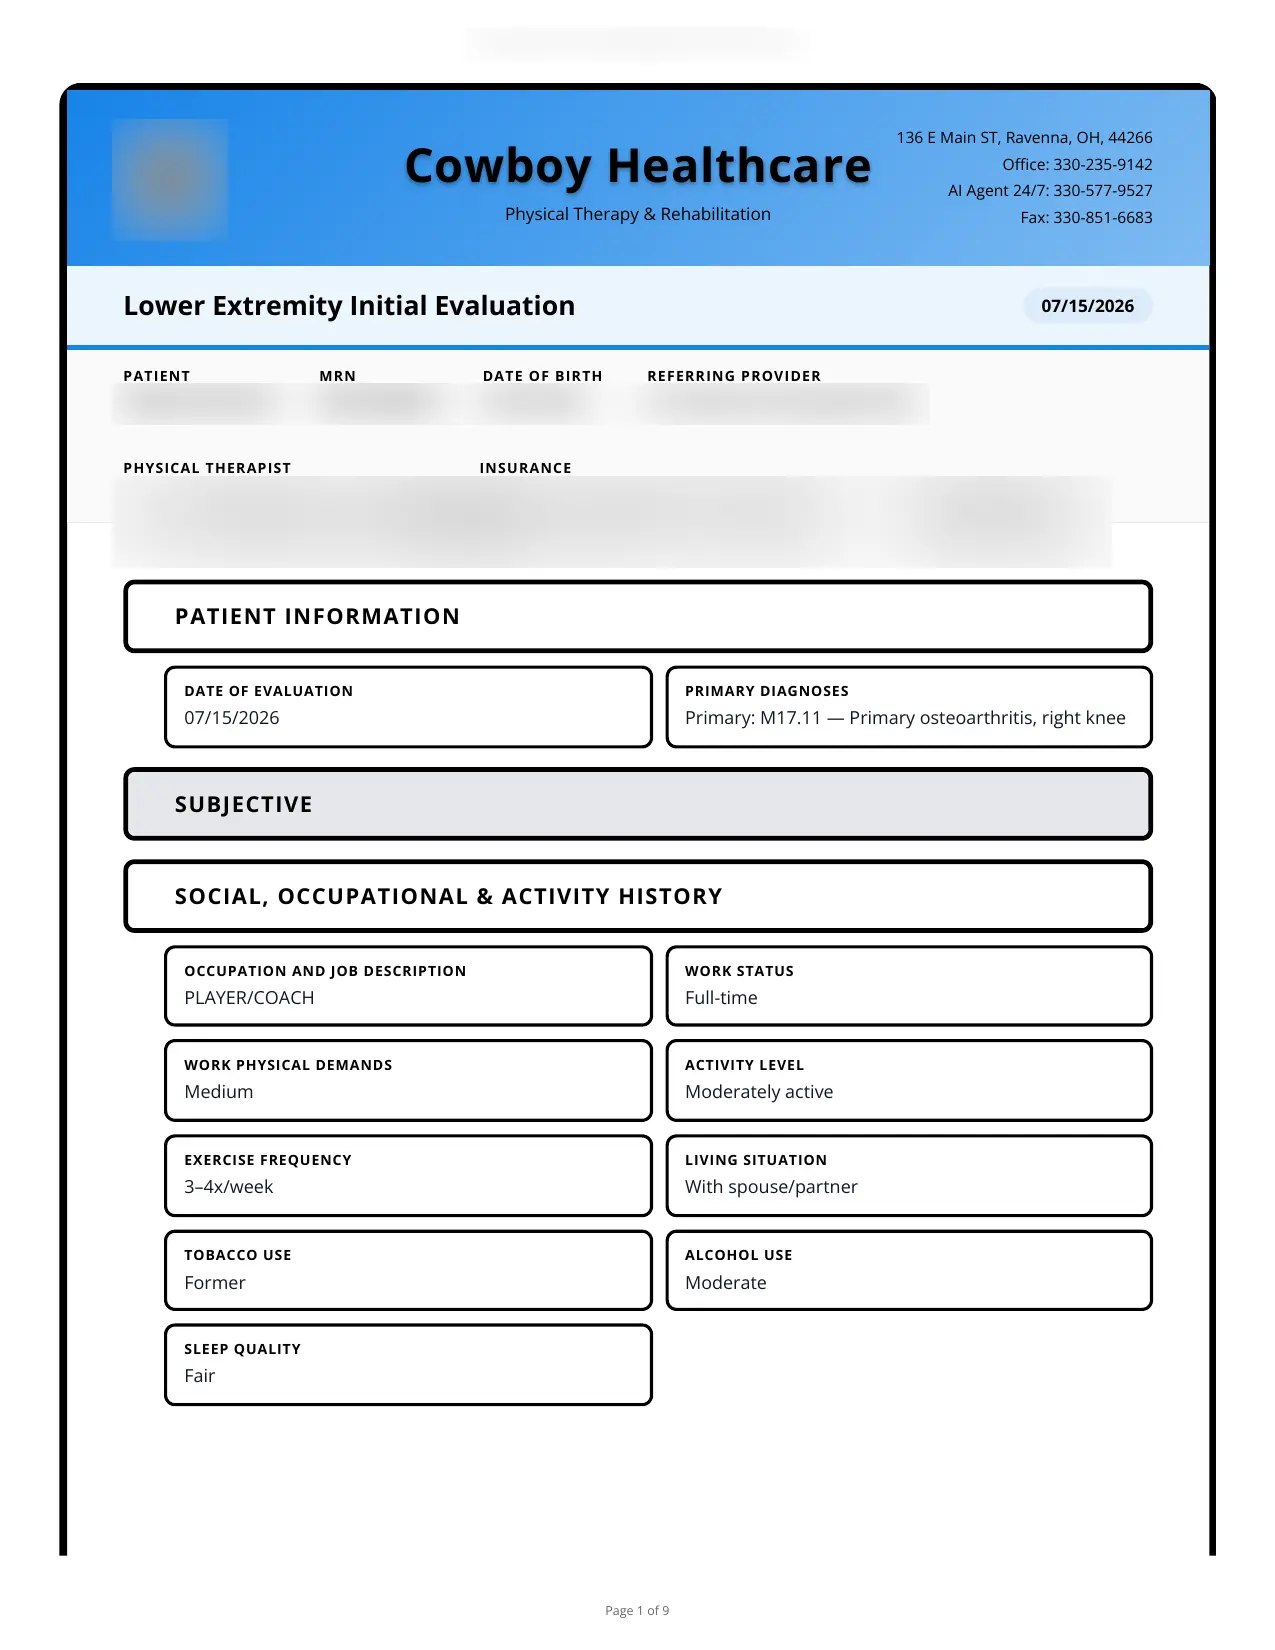
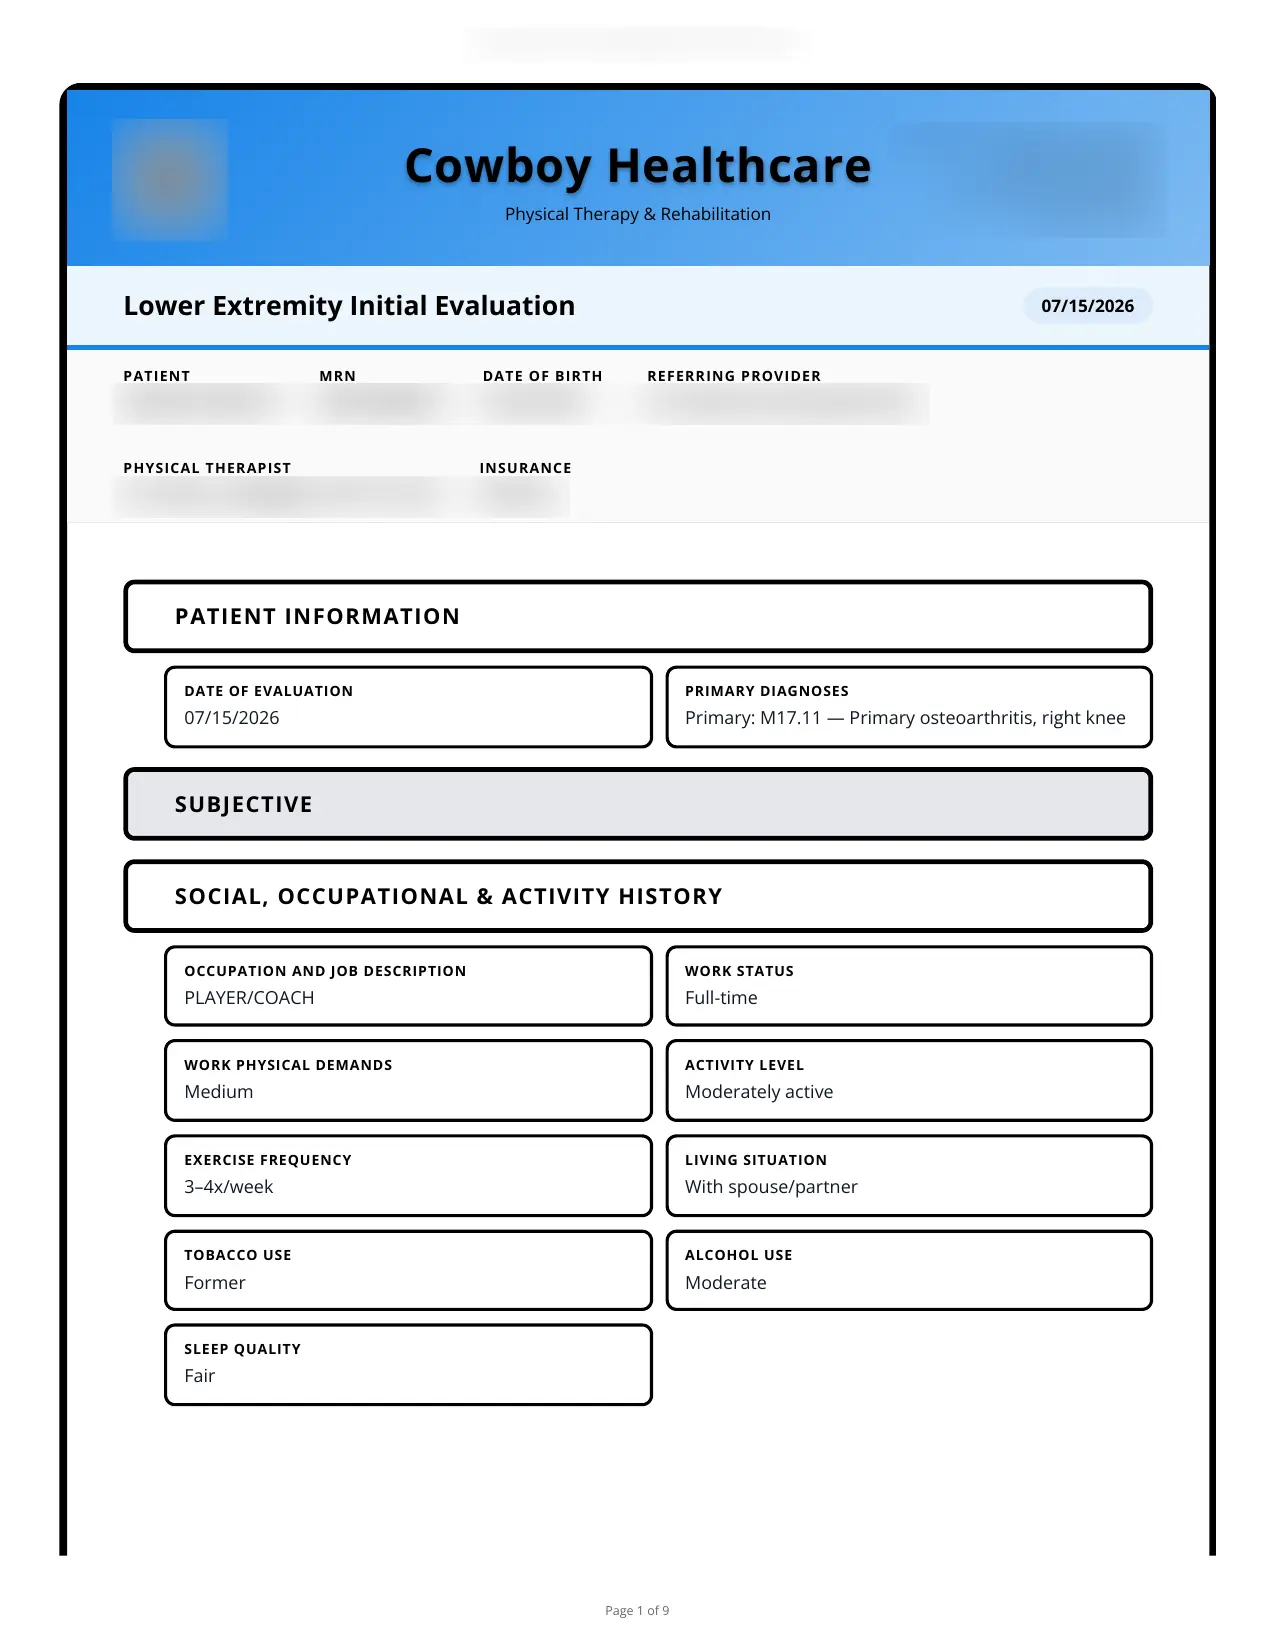
Blur the clinic address and phone block on the eval note
Claude-Session: https://claude.ai/code/session_01PXDZAk2nAo2KLzUGY7thp8

diff --git a/index.html b/index.html
@@ -318,7 +318,7 @@
       </div>
       <div class="note-scroll" tabindex="0" role="group" aria-label="Signed initial evaluation note. Scroll to read; use the plus and minus buttons to zoom.">
         <div class="note-pages">
-          <img src="/assets/product/eval-note/page-1.webp?v=2" alt="Signed initial evaluation, page 1 of 9: patient information and subjective history" loading="lazy" decoding="async"/>
+          <img src="/assets/product/eval-note/page-1.webp?v=3" alt="Signed initial evaluation, page 1 of 9: patient information and subjective history" loading="lazy" decoding="async"/>
           <img src="/assets/product/eval-note/page-2.webp?v=2" alt="Signed initial evaluation, page 2 of 9: past medical history, vitals and pain" loading="lazy" decoding="async"/>
           <img src="/assets/product/eval-note/page-3.webp?v=2" alt="Signed initial evaluation, page 3 of 9: observation, palpation and gait" loading="lazy" decoding="async"/>
           <img src="/assets/product/eval-note/page-4.webp?v=2" alt="Signed initial evaluation, page 4 of 9: range of motion and strength" loading="lazy" decoding="async"/>
